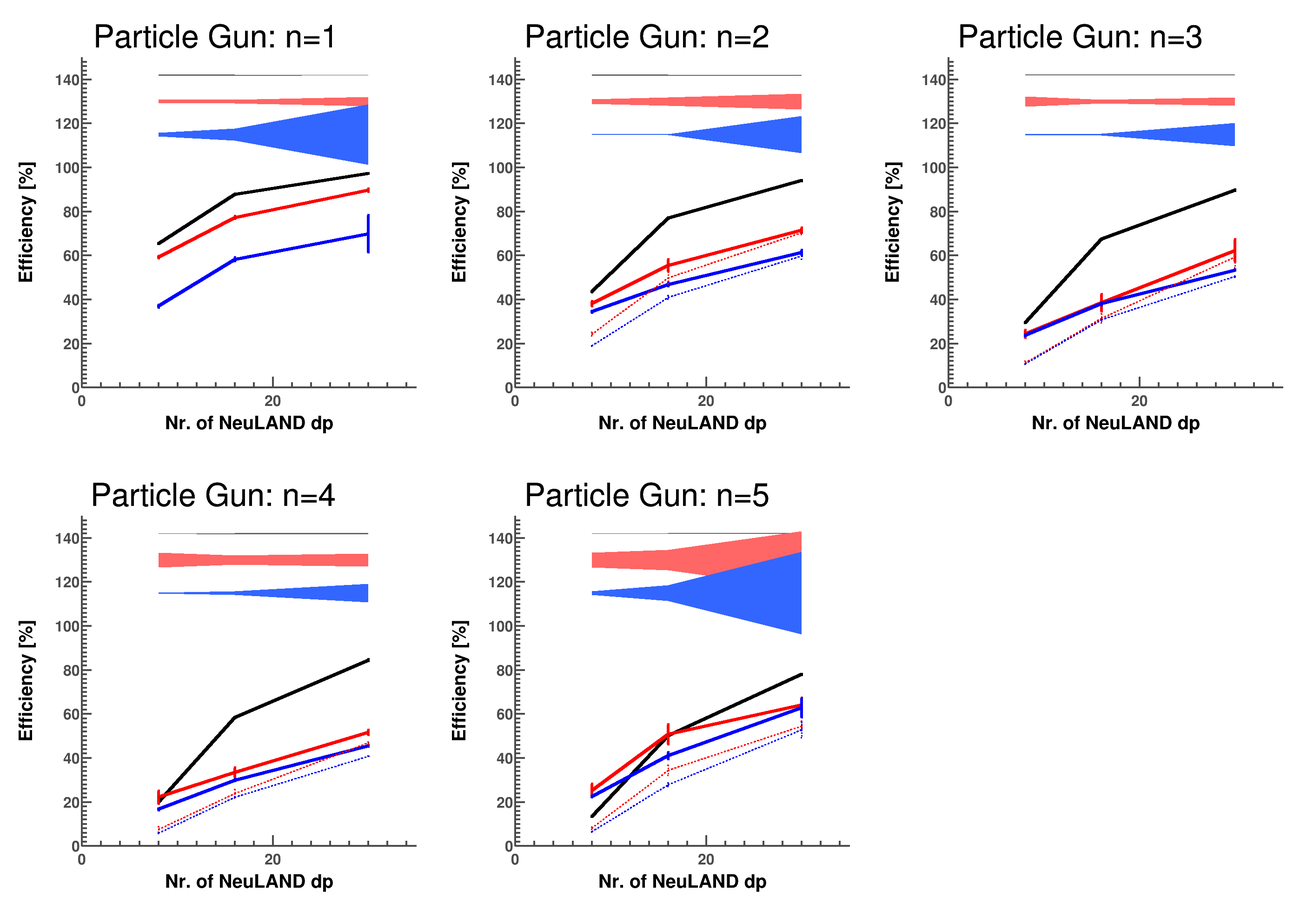
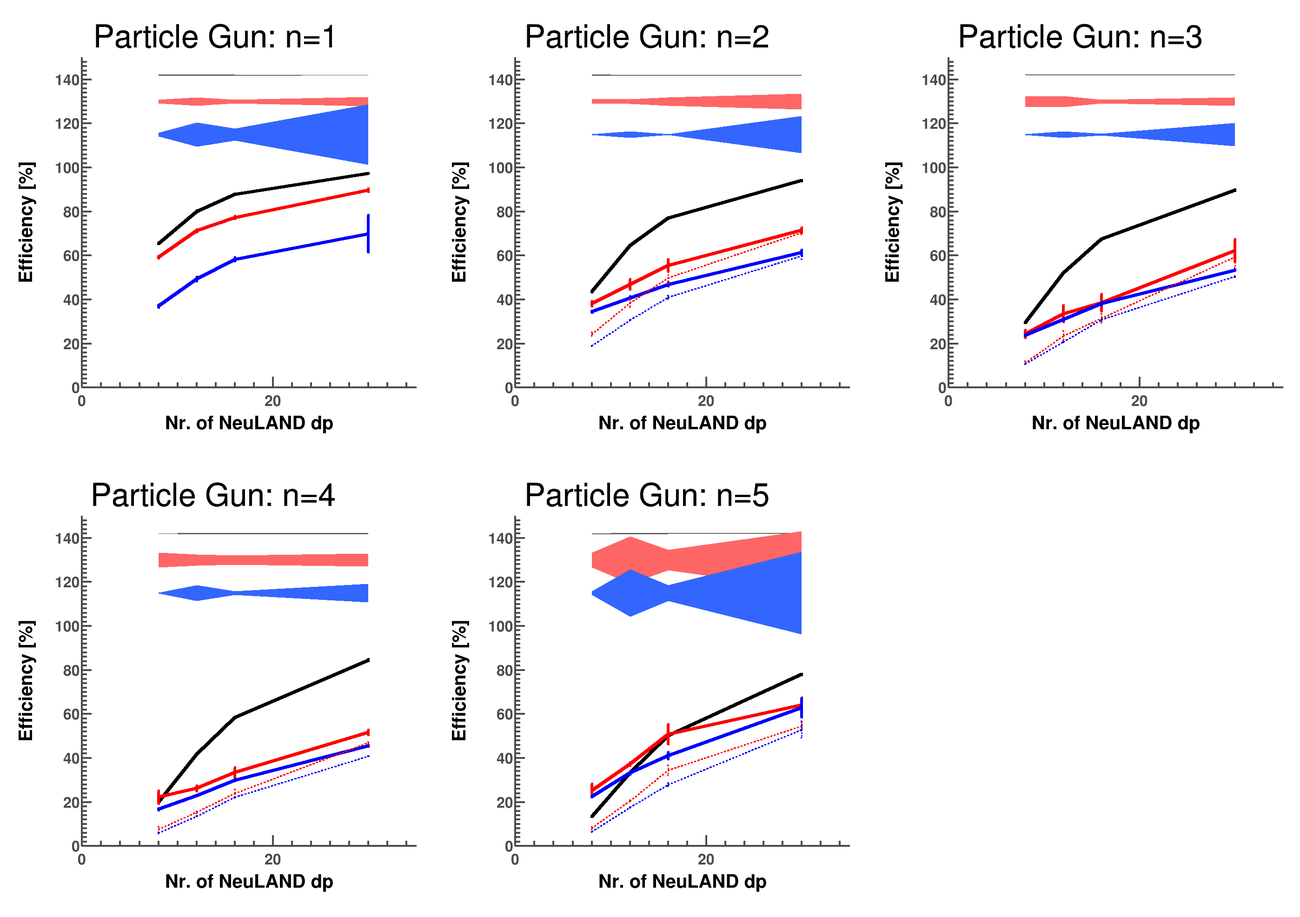
12 dp scenario

diff --git a/R3BRoot/DNN/Presentation/MakeMultAllGraphs_1000MeV.cpp b/R3BRoot/DNN/Presentation/MakeMultAllGraphs_1000MeV.cpp
@@ -45,12 +45,12 @@ void MakeMultAllGraphs_1000MeV()
     
     // ------------------------------------------------------------
     
-    // Then, add the 16dp scenario:
-    DNN_1n->AddYpoint(1,76.9,76.4,76.5,78.2,77.2); DNN_Res_1n->AddYpoint(1,75.4,75.0,75.0,76.7,75.6); TDR_1n->AddYpoint(1,56.7,57.4,55.5,61.1,59.7); TDR_Res_1n->AddYpoint(1,56.0,56.7,54.7,60.4,58.9); Perfect_1n->AddYpoint(1,87.9,87.9,87.5,88.1,87.5);
-    DNN_2n->AddYpoint(1,57.4,54.8,56.9,54.0,53.7); DNN_Res_2n->AddYpoint(1,51.7,49.0,51.0,48.9,48.2); TDR_2n->AddYpoint(1,47.0,47.7,46.6,47.0,46.8); TDR_Res_2n->AddYpoint(1,40.9,41.8,40.1,41.8,41.3); Perfect_2n->AddYpoint(1,77.2,77.4,76.8,77.3,76.7);
-    DNN_3n->AddYpoint(1,37.7,41.5,38.2,39.1,39.2); DNN_Res_3n->AddYpoint(1,31.2,33.4,31.3,32.1,31.5); TDR_3n->AddYpoint(1,38.3,37.8,38.6,37.6,37.6); TDR_Res_3n->AddYpoint(1,31.1,30.9,30.7,31.0,30.6); Perfect_3n->AddYpoint(1,67.6,67.6,67.4,67.4,67.1);
-    DNN_4n->AddYpoint(1,35.6,33.5,35.6,31.2,31.7); DNN_Res_4n->AddYpoint(1,25.9,23.9,25.3,22.3,21.9); TDR_4n->AddYpoint(1,30.0,29.7,30.7,29.0,30.0); TDR_Res_4n->AddYpoint(1,22.4,22.4,22.2,22.1,22.3); Perfect_4n->AddYpoint(1,58.7,58.8,58.0,58.6,58.3);
-    DNN_5n->AddYpoint(1,46.5,50.9,49.8,50.8,56.0); DNN_Res_5n->AddYpoint(1,32.3,34.6,34.1,34.4,37.0); TDR_5n->AddYpoint(1,40.9,39.5,44.7,37.5,41.0); TDR_Res_5n->AddYpoint(1,27.9,27.0,30.2,25.8,27.9); Perfect_5n->AddYpoint(1,50.3,50.2,50.2,50.3,50.0);
+    // Then, add the 12dp scenario:
+    DNN_1n->AddYpoint(1,71.4,71.9,69.5,73.1,70.7); DNN_Res_1n->AddYpoint(1,69.0,69.5,67.1,70.7,68.2); TDR_1n->AddYpoint(1,48.9,49.8,43.9,54.7,49.6); TDR_Res_1n->AddYpoint(1,47.8,48.7,42.8,53.6,48.4); Perfect_1n->AddYpoint(1,79.8,80.1,80.1,80.0,79.9);
+    DNN_2n->AddYpoint(1,46.4,44.2,45.8,46.9,48.0); DNN_Res_2n->AddYpoint(1,37.9,36.0,36.2,40.1,39.5); TDR_2n->AddYpoint(1,41.0,40.5,38.8,41.7,41.4); TDR_Res_2n->AddYpoint(1,30.9,30.7,27.1,33.7,31.4); Perfect_2n->AddYpoint(1,64.4,64.4,64.5,64.3,64.5);
+    DNN_3n->AddYpoint(1,34.6,38.3,35.5,30.4,33.5); DNN_Res_3n->AddYpoint(1,24.0,26.2,23.2,23.0,23.9); TDR_3n->AddYpoint(1,30.9,30.5,31.1,29.3,32.2); TDR_Res_3n->AddYpoint(1,20.8,20.6,19.0,21.7,21.9); Perfect_3n->AddYpoint(1,51.8,51.8,52.3,51.8,52.3);
+    DNN_4n->AddYpoint(1,25.5,24.4,27.0,23.5,28.6); DNN_Res_4n->AddYpoint(1,14.8,14.3,14.3,15.4,17.1); TDR_4n->AddYpoint(1,23.5,23.5,26.0,18.8,23.4); TDR_Res_4n->AddYpoint(1,14.0,14.0,13.6,12.7,14.2); Perfect_4n->AddYpoint(1,41.3,41.3,41.9,41.4,42.2);
+    DNN_5n->AddYpoint(1,38.8,39.4,47.8,26.4,36.1); DNN_Res_5n->AddYpoint(1,21.1,21.4,24.8,15.8,20.6); TDR_5n->AddYpoint(1,32.3,32.8,44.4,23.0,33.0); TDR_Res_5n->AddYpoint(1,17.3,17.4,22.4,12.7,17.9); Perfect_5n->AddYpoint(1,32.9,33.1,33.6,33.0,33.8);
     
     DNN_1n->AddYerror(1,SqrtN,SqrtN,SqrtN,SqrtN,SqrtN); DNN_Res_1n->AddYerror(1,SqrtN,SqrtN,SqrtN,SqrtN,SqrtN); TDR_1n->AddYerror(1,SqrtN,SqrtN,SqrtN,SqrtN,SqrtN); TDR_Res_1n->AddYerror(1,SqrtN,SqrtN,SqrtN,SqrtN,SqrtN); Perfect_1n->AddYerror(1,SqrtN,SqrtN,SqrtN,SqrtN,SqrtN);
     DNN_2n->AddYerror(1,SqrtN,SqrtN,SqrtN,SqrtN,SqrtN); DNN_Res_2n->AddYerror(1,SqrtN,SqrtN,SqrtN,SqrtN,SqrtN); TDR_2n->AddYerror(1,SqrtN,SqrtN,SqrtN,SqrtN,SqrtN); TDR_Res_2n->AddYerror(1,SqrtN,SqrtN,SqrtN,SqrtN,SqrtN); Perfect_2n->AddYerror(1,SqrtN,SqrtN,SqrtN,SqrtN,SqrtN);
@@ -58,20 +58,20 @@ void MakeMultAllGraphs_1000MeV()
     DNN_4n->AddYerror(1,SqrtN,SqrtN,SqrtN,SqrtN,SqrtN); DNN_Res_4n->AddYerror(1,SqrtN,SqrtN,SqrtN,SqrtN,SqrtN); TDR_4n->AddYerror(1,SqrtN,SqrtN,SqrtN,SqrtN,SqrtN); TDR_Res_4n->AddYerror(1,SqrtN,SqrtN,SqrtN,SqrtN,SqrtN); Perfect_4n->AddYerror(1,SqrtN,SqrtN,SqrtN,SqrtN,SqrtN);
     DNN_5n->AddYerror(1,SqrtN,SqrtN,SqrtN,SqrtN,SqrtN); DNN_Res_5n->AddYerror(1,SqrtN,SqrtN,SqrtN,SqrtN,SqrtN); TDR_5n->AddYerror(1,SqrtN,SqrtN,SqrtN,SqrtN,SqrtN); TDR_Res_5n->AddYerror(1,SqrtN,SqrtN,SqrtN,SqrtN,SqrtN); Perfect_5n->AddYerror(1,SqrtN,SqrtN,SqrtN,SqrtN,SqrtN);
     
-    DNN_1n->AddXpoint(1,16.0); DNN_Res_1n->AddXpoint(1,16.0); TDR_1n->AddXpoint(1,16.0); TDR_Res_1n->AddXpoint(1,16.0); Perfect_1n->AddXpoint(1,16.0);
-    DNN_2n->AddXpoint(1,16.0); DNN_Res_2n->AddXpoint(1,16.0); TDR_2n->AddXpoint(1,16.0); TDR_Res_2n->AddXpoint(1,16.0); Perfect_2n->AddXpoint(1,16.0);
-    DNN_3n->AddXpoint(1,16.0); DNN_Res_3n->AddXpoint(1,16.0); TDR_3n->AddXpoint(1,16.0); TDR_Res_3n->AddXpoint(1,16.0); Perfect_3n->AddXpoint(1,16.0);
-    DNN_4n->AddXpoint(1,16.0); DNN_Res_4n->AddXpoint(1,16.0); TDR_4n->AddXpoint(1,16.0); TDR_Res_4n->AddXpoint(1,16.0); Perfect_4n->AddXpoint(1,16.0);
-    DNN_5n->AddXpoint(1,16.0); DNN_Res_5n->AddXpoint(1,16.0); TDR_5n->AddXpoint(1,16.0); TDR_Res_5n->AddXpoint(1,16.0); Perfect_5n->AddXpoint(1,16.0);
+    DNN_1n->AddXpoint(1,12.0); DNN_Res_1n->AddXpoint(1,12.0); TDR_1n->AddXpoint(1,12.0); TDR_Res_1n->AddXpoint(1,12.0); Perfect_1n->AddXpoint(1,12.0);
+    DNN_2n->AddXpoint(1,12.0); DNN_Res_2n->AddXpoint(1,12.0); TDR_2n->AddXpoint(1,12.0); TDR_Res_2n->AddXpoint(1,12.0); Perfect_2n->AddXpoint(1,12.0);
+    DNN_3n->AddXpoint(1,12.0); DNN_Res_3n->AddXpoint(1,12.0); TDR_3n->AddXpoint(1,12.0); TDR_Res_3n->AddXpoint(1,12.0); Perfect_3n->AddXpoint(1,12.0);
+    DNN_4n->AddXpoint(1,12.0); DNN_Res_4n->AddXpoint(1,12.0); TDR_4n->AddXpoint(1,12.0); TDR_Res_4n->AddXpoint(1,12.0); Perfect_4n->AddXpoint(1,12.0);
+    DNN_5n->AddXpoint(1,12.0); DNN_Res_5n->AddXpoint(1,12.0); TDR_5n->AddXpoint(1,12.0); TDR_Res_5n->AddXpoint(1,12.0); Perfect_5n->AddXpoint(1,12.0);
     
     // ------------------------------------------------------------
     
-    // Then, add the 30dp scenario:
-    DNN_1n->AddYpoint(2,89.5,88.9,87.6,91.8,89.7); DNN_Res_1n->AddYpoint(2,89.2,88.6,87.2,91.4,89.3); TDR_1n->AddYpoint(2,67.1,75.4,53.4,80.9,78.0); TDR_Res_1n->AddYpoint(2,66.9,75.2,53.2,80.8,77.8); Perfect_1n->AddYpoint(2,97.2,97.2,97.3,97.3,97.2);
-    DNN_2n->AddYpoint(2,70.9,71.9,67.1,74.1,73.9); DNN_Res_2n->AddYpoint(2,69.8,70.7,65.9,73.2,72.8); TDR_2n->AddYpoint(2,64.1,65.2,49.7,66.5,65.2); TDR_Res_2n->AddYpoint(2,62.4,64.0,47.4,65.7,64.2); Perfect_2n->AddYpoint(2,94.1,94.0,93.9,94.0,94.0);
-    DNN_3n->AddYpoint(2,64.0,59.0,61.2,60.2,63.7); DNN_Res_3n->AddYpoint(2,61.0,56.3,57.6,58.0,60.7); TDR_3n->AddYpoint(2,57.4,57.4,46.8,52.4,56.7); TDR_Res_3n->AddYpoint(2,54.4,54.7,42.7,50.9,53.9); Perfect_3n->AddYpoint(2,89.7,89.9,89.5,89.9,89.6);
-    DNN_4n->AddYpoint(2,52.3,53.4,50.5,48.9,54.7); DNN_Res_4n->AddYpoint(2,47.7,48.2,44.9,45.2,49.7); TDR_4n->AddYpoint(2,48.8,48.6,43.3,40.8,49.2); TDR_Res_4n->AddYpoint(2,44.3,44.2,37.3,37.6,44.4); Perfect_4n->AddYpoint(2,84.7,84.4,84.2,84.5,84.1);
-    DNN_5n->AddYpoint(2,66.1,69.1,75.6,49.2,65.7); DNN_Res_5n->AddYpoint(2,56.6,58.8,63.4,42.7,55.9); TDR_5n->AddYpoint(2,58.0,62.3,81.0,43.4,68.8); TDR_Res_5n->AddYpoint(2,49.4,53.0,66.9,37.1,57.9); Perfect_5n->AddYpoint(2,78.2,78.2,77.7,78.2,77.8);
+    // Then, add the 16dp scenario:
+    DNN_1n->AddYpoint(2,76.9,76.4,76.5,78.2,77.2); DNN_Res_1n->AddYpoint(2,75.4,75.0,75.0,76.7,75.6); TDR_1n->AddYpoint(2,56.7,57.4,55.5,61.1,59.7); TDR_Res_1n->AddYpoint(2,56.0,56.7,54.7,60.4,58.9); Perfect_1n->AddYpoint(2,87.9,87.9,87.5,88.1,87.5);
+    DNN_2n->AddYpoint(2,57.4,54.8,56.9,54.0,53.7); DNN_Res_2n->AddYpoint(2,51.7,49.0,51.0,48.9,48.2); TDR_2n->AddYpoint(2,47.0,47.7,46.6,47.0,46.8); TDR_Res_2n->AddYpoint(2,40.9,41.8,40.1,41.8,41.3); Perfect_2n->AddYpoint(2,77.2,77.4,76.8,77.3,76.7);
+    DNN_3n->AddYpoint(2,37.7,41.5,38.2,39.1,39.2); DNN_Res_3n->AddYpoint(2,31.2,33.4,31.3,32.1,31.5); TDR_3n->AddYpoint(2,38.3,37.8,38.6,37.6,37.6); TDR_Res_3n->AddYpoint(2,31.1,30.9,30.7,31.0,30.6); Perfect_3n->AddYpoint(2,67.6,67.6,67.4,67.4,67.1);
+    DNN_4n->AddYpoint(2,35.6,33.5,35.6,31.2,31.7); DNN_Res_4n->AddYpoint(2,25.9,23.9,25.3,22.3,21.9); TDR_4n->AddYpoint(2,30.0,29.7,30.7,29.0,30.0); TDR_Res_4n->AddYpoint(2,22.4,22.4,22.2,22.1,22.3); Perfect_4n->AddYpoint(2,58.7,58.8,58.0,58.6,58.3);
+    DNN_5n->AddYpoint(2,46.5,50.9,49.8,50.8,56.0); DNN_Res_5n->AddYpoint(2,32.3,34.6,34.1,34.4,37.0); TDR_5n->AddYpoint(2,40.9,39.5,44.7,37.5,41.0); TDR_Res_5n->AddYpoint(2,27.9,27.0,30.2,25.8,27.9); Perfect_5n->AddYpoint(2,50.3,50.2,50.2,50.3,50.0);
     
     DNN_1n->AddYerror(2,SqrtN,SqrtN,SqrtN,SqrtN,SqrtN); DNN_Res_1n->AddYerror(2,SqrtN,SqrtN,SqrtN,SqrtN,SqrtN); TDR_1n->AddYerror(2,SqrtN,SqrtN,SqrtN,SqrtN,SqrtN); TDR_Res_1n->AddYerror(2,SqrtN,SqrtN,SqrtN,SqrtN,SqrtN); Perfect_1n->AddYerror(2,SqrtN,SqrtN,SqrtN,SqrtN,SqrtN);
     DNN_2n->AddYerror(2,SqrtN,SqrtN,SqrtN,SqrtN,SqrtN); DNN_Res_2n->AddYerror(2,SqrtN,SqrtN,SqrtN,SqrtN,SqrtN); TDR_2n->AddYerror(2,SqrtN,SqrtN,SqrtN,SqrtN,SqrtN); TDR_Res_2n->AddYerror(2,SqrtN,SqrtN,SqrtN,SqrtN,SqrtN); Perfect_2n->AddYerror(2,SqrtN,SqrtN,SqrtN,SqrtN,SqrtN);
@@ -79,11 +79,32 @@ void MakeMultAllGraphs_1000MeV()
     DNN_4n->AddYerror(2,SqrtN,SqrtN,SqrtN,SqrtN,SqrtN); DNN_Res_4n->AddYerror(2,SqrtN,SqrtN,SqrtN,SqrtN,SqrtN); TDR_4n->AddYerror(2,SqrtN,SqrtN,SqrtN,SqrtN,SqrtN); TDR_Res_4n->AddYerror(2,SqrtN,SqrtN,SqrtN,SqrtN,SqrtN); Perfect_4n->AddYerror(2,SqrtN,SqrtN,SqrtN,SqrtN,SqrtN);
     DNN_5n->AddYerror(2,SqrtN,SqrtN,SqrtN,SqrtN,SqrtN); DNN_Res_5n->AddYerror(2,SqrtN,SqrtN,SqrtN,SqrtN,SqrtN); TDR_5n->AddYerror(2,SqrtN,SqrtN,SqrtN,SqrtN,SqrtN); TDR_Res_5n->AddYerror(2,SqrtN,SqrtN,SqrtN,SqrtN,SqrtN); Perfect_5n->AddYerror(2,SqrtN,SqrtN,SqrtN,SqrtN,SqrtN);
     
-    DNN_1n->AddXpoint(2,30.0); DNN_Res_1n->AddXpoint(2,30.0); TDR_1n->AddXpoint(2,30.0); TDR_Res_1n->AddXpoint(2,30.0); Perfect_1n->AddXpoint(2,30.0);
-    DNN_2n->AddXpoint(2,30.0); DNN_Res_2n->AddXpoint(2,30.0); TDR_2n->AddXpoint(2,30.0); TDR_Res_2n->AddXpoint(2,30.0); Perfect_2n->AddXpoint(2,30.0);
-    DNN_3n->AddXpoint(2,30.0); DNN_Res_3n->AddXpoint(2,30.0); TDR_3n->AddXpoint(2,30.0); TDR_Res_3n->AddXpoint(2,30.0); Perfect_3n->AddXpoint(2,30.0);
-    DNN_4n->AddXpoint(2,30.0); DNN_Res_4n->AddXpoint(2,30.0); TDR_4n->AddXpoint(2,30.0); TDR_Res_4n->AddXpoint(2,30.0); Perfect_4n->AddXpoint(2,30.0);
-    DNN_5n->AddXpoint(2,30.0); DNN_Res_5n->AddXpoint(2,30.0); TDR_5n->AddXpoint(2,30.0); TDR_Res_5n->AddXpoint(2,30.0); Perfect_5n->AddXpoint(2,30.0);
+    DNN_1n->AddXpoint(2,16.0); DNN_Res_1n->AddXpoint(2,16.0); TDR_1n->AddXpoint(2,16.0); TDR_Res_1n->AddXpoint(2,16.0); Perfect_1n->AddXpoint(2,16.0);
+    DNN_2n->AddXpoint(2,16.0); DNN_Res_2n->AddXpoint(2,16.0); TDR_2n->AddXpoint(2,16.0); TDR_Res_2n->AddXpoint(2,16.0); Perfect_2n->AddXpoint(2,16.0);
+    DNN_3n->AddXpoint(2,16.0); DNN_Res_3n->AddXpoint(2,16.0); TDR_3n->AddXpoint(2,16.0); TDR_Res_3n->AddXpoint(2,16.0); Perfect_3n->AddXpoint(2,16.0);
+    DNN_4n->AddXpoint(2,16.0); DNN_Res_4n->AddXpoint(2,16.0); TDR_4n->AddXpoint(2,16.0); TDR_Res_4n->AddXpoint(2,16.0); Perfect_4n->AddXpoint(2,16.0);
+    DNN_5n->AddXpoint(2,16.0); DNN_Res_5n->AddXpoint(2,16.0); TDR_5n->AddXpoint(2,16.0); TDR_Res_5n->AddXpoint(2,16.0); Perfect_5n->AddXpoint(2,16.0);
+    
+    // ------------------------------------------------------------
+    
+    // Then, add the 30dp scenario:
+    DNN_1n->AddYpoint(3,89.5,88.9,87.6,91.8,89.7); DNN_Res_1n->AddYpoint(3,89.2,88.6,87.2,91.4,89.3); TDR_1n->AddYpoint(3,67.1,75.4,53.4,80.9,78.0); TDR_Res_1n->AddYpoint(3,66.9,75.2,53.2,80.8,77.8); Perfect_1n->AddYpoint(3,97.2,97.2,97.3,97.3,97.2);
+    DNN_2n->AddYpoint(3,70.9,71.9,67.1,74.1,73.9); DNN_Res_2n->AddYpoint(3,69.8,70.7,65.9,73.2,72.8); TDR_2n->AddYpoint(3,64.1,65.2,49.7,66.5,65.2); TDR_Res_2n->AddYpoint(3,62.4,64.0,47.4,65.7,64.2); Perfect_2n->AddYpoint(3,94.1,94.0,93.9,94.0,94.0);
+    DNN_3n->AddYpoint(3,64.0,59.0,61.2,60.2,63.7); DNN_Res_3n->AddYpoint(3,61.0,56.3,57.6,58.0,60.7); TDR_3n->AddYpoint(3,57.4,57.4,46.8,52.4,56.7); TDR_Res_3n->AddYpoint(3,54.4,54.7,42.7,50.9,53.9); Perfect_3n->AddYpoint(3,89.7,89.9,89.5,89.9,89.6);
+    DNN_4n->AddYpoint(3,52.3,53.4,50.5,48.9,54.7); DNN_Res_4n->AddYpoint(3,47.7,48.2,44.9,45.2,49.7); TDR_4n->AddYpoint(3,48.8,48.6,43.3,40.8,49.2); TDR_Res_4n->AddYpoint(3,44.3,44.2,37.3,37.6,44.4); Perfect_4n->AddYpoint(3,84.7,84.4,84.2,84.5,84.1);
+    DNN_5n->AddYpoint(3,66.1,69.1,75.6,49.2,65.7); DNN_Res_5n->AddYpoint(3,56.6,58.8,63.4,42.7,55.9); TDR_5n->AddYpoint(3,58.0,62.3,81.0,43.4,68.8); TDR_Res_5n->AddYpoint(3,49.4,53.0,66.9,37.1,57.9); Perfect_5n->AddYpoint(3,78.2,78.2,77.7,78.2,77.8);
+    
+    DNN_1n->AddYerror(3,SqrtN,SqrtN,SqrtN,SqrtN,SqrtN); DNN_Res_1n->AddYerror(3,SqrtN,SqrtN,SqrtN,SqrtN,SqrtN); TDR_1n->AddYerror(3,SqrtN,SqrtN,SqrtN,SqrtN,SqrtN); TDR_Res_1n->AddYerror(3,SqrtN,SqrtN,SqrtN,SqrtN,SqrtN); Perfect_1n->AddYerror(3,SqrtN,SqrtN,SqrtN,SqrtN,SqrtN);
+    DNN_2n->AddYerror(3,SqrtN,SqrtN,SqrtN,SqrtN,SqrtN); DNN_Res_2n->AddYerror(3,SqrtN,SqrtN,SqrtN,SqrtN,SqrtN); TDR_2n->AddYerror(3,SqrtN,SqrtN,SqrtN,SqrtN,SqrtN); TDR_Res_2n->AddYerror(3,SqrtN,SqrtN,SqrtN,SqrtN,SqrtN); Perfect_2n->AddYerror(3,SqrtN,SqrtN,SqrtN,SqrtN,SqrtN);
+    DNN_3n->AddYerror(3,SqrtN,SqrtN,SqrtN,SqrtN,SqrtN); DNN_Res_3n->AddYerror(3,SqrtN,SqrtN,SqrtN,SqrtN,SqrtN); TDR_3n->AddYerror(3,SqrtN,SqrtN,SqrtN,SqrtN,SqrtN); TDR_Res_3n->AddYerror(3,SqrtN,SqrtN,SqrtN,SqrtN,SqrtN); Perfect_3n->AddYerror(3,SqrtN,SqrtN,SqrtN,SqrtN,SqrtN);
+    DNN_4n->AddYerror(3,SqrtN,SqrtN,SqrtN,SqrtN,SqrtN); DNN_Res_4n->AddYerror(3,SqrtN,SqrtN,SqrtN,SqrtN,SqrtN); TDR_4n->AddYerror(3,SqrtN,SqrtN,SqrtN,SqrtN,SqrtN); TDR_Res_4n->AddYerror(3,SqrtN,SqrtN,SqrtN,SqrtN,SqrtN); Perfect_4n->AddYerror(3,SqrtN,SqrtN,SqrtN,SqrtN,SqrtN);
+    DNN_5n->AddYerror(3,SqrtN,SqrtN,SqrtN,SqrtN,SqrtN); DNN_Res_5n->AddYerror(3,SqrtN,SqrtN,SqrtN,SqrtN,SqrtN); TDR_5n->AddYerror(3,SqrtN,SqrtN,SqrtN,SqrtN,SqrtN); TDR_Res_5n->AddYerror(3,SqrtN,SqrtN,SqrtN,SqrtN,SqrtN); Perfect_5n->AddYerror(3,SqrtN,SqrtN,SqrtN,SqrtN,SqrtN);
+    
+    DNN_1n->AddXpoint(3,30.0); DNN_Res_1n->AddXpoint(3,30.0); TDR_1n->AddXpoint(3,30.0); TDR_Res_1n->AddXpoint(3,30.0); Perfect_1n->AddXpoint(3,30.0);
+    DNN_2n->AddXpoint(3,30.0); DNN_Res_2n->AddXpoint(3,30.0); TDR_2n->AddXpoint(3,30.0); TDR_Res_2n->AddXpoint(3,30.0); Perfect_2n->AddXpoint(3,30.0);
+    DNN_3n->AddXpoint(3,30.0); DNN_Res_3n->AddXpoint(3,30.0); TDR_3n->AddXpoint(3,30.0); TDR_Res_3n->AddXpoint(3,30.0); Perfect_3n->AddXpoint(3,30.0);
+    DNN_4n->AddXpoint(3,30.0); DNN_Res_4n->AddXpoint(3,30.0); TDR_4n->AddXpoint(3,30.0); TDR_Res_4n->AddXpoint(3,30.0); Perfect_4n->AddXpoint(3,30.0);
+    DNN_5n->AddXpoint(3,30.0); DNN_Res_5n->AddXpoint(3,30.0); TDR_5n->AddXpoint(3,30.0); TDR_Res_5n->AddXpoint(3,30.0); Perfect_5n->AddXpoint(3,30.0);
     
     // ------------------------------------------------------------
     

diff --git a/R3BRoot/DNN/Presentation/MakeMultAllGraphs_200MeV.cpp b/R3BRoot/DNN/Presentation/MakeMultAllGraphs_200MeV.cpp
@@ -45,12 +45,12 @@ void MakeMultAllGraphs_200MeV()
     
     // ------------------------------------------------------------
     
-    // Then, add the 16dp scenario:
-    DNN_1n->AddYpoint(1,75.2,74.8,72.7,73.2,69.9); DNN_Res_1n->AddYpoint(1,74.7,74.4,72.0,72.8,69.3); TDR_1n->AddYpoint(1,66.4,67.5,64.2,64.5,62.0); TDR_Res_1n->AddYpoint(1,66.1,76.3,63.8,64.3,61.7); Perfect_1n->AddYpoint(1,82.5,82.6,79.1,82.8,79.0);
-    DNN_2n->AddYpoint(1,55.9,56.2,49.1,53.8,48.8); DNN_Res_2n->AddYpoint(1,50.2,50.5,43.0,47.0,41.0); TDR_2n->AddYpoint(1,51.6,50.8,46.0,52.7,47.2); TDR_Res_2n->AddYpoint(1,46.1,45.6,39.7,46.5,40.0); Perfect_2n->AddYpoint(1,68.5,68.3,62.9,68.4,62.7);
-    DNN_3n->AddYpoint(1,41.3,43.8,34.0,40.2,35.3); DNN_Res_3n->AddYpoint(1,33.1,35.3,26.3,29.8,24.9); TDR_3n->AddYpoint(1,38.9,38.4,32.4,33.1,28.4); TDR_Res_3n->AddYpoint(1,31.7,31.2,25.0,25.8,21.0); Perfect_3n->AddYpoint(1,56.3,56.3,49.6,56.1,49.7);
-    DNN_4n->AddYpoint(1,37.0,36.1,28.3,40.5,34.6); DNN_Res_4n->AddYpoint(1,25.8,26.3,19.0,25.8,20.5); TDR_4n->AddYpoint(1,33.4,34.1,26.1,39.4,32.4); TDR_Res_4n->AddYpoint(1,24.8,25.0,18.1,26.6,20.4); Perfect_4n->AddYpoint(1,46.1,46.1,38.9,46.2,38.9);
-    DNN_5n->AddYpoint(1,40.1,35.7,26.6,43.6,33.9); DNN_Res_5n->AddYpoint(1,27.2,25.0,17.0,28.0,20.0); TDR_5n->AddYpoint(1,32.3,32.4,23.1,36.5,27.5); TDR_Res_5n->AddYpoint(1,23.1,23.0,15.0,25.0,17.1); Perfect_5n->AddYpoint(1,37.5,37.4,30.3,37.3,30.2);
+    // Then, add the 12dp scenario:
+    DNN_1n->AddYpoint(1,64.8,66.4,60.5,66.1,62.0); DNN_Res_1n->AddYpoint(1,64.1,65.6,59.5,65.3,61.1); TDR_1n->AddYpoint(1,57.9,57.9,50.8,61.4,55.1); TDR_Res_1n->AddYpoint(1,57.4,57.5,50.3,60.9,54.6); Perfect_1n->AddYpoint(1,72.8,72.7,70.6,72.6,70.6);
+    DNN_2n->AddYpoint(1,48.5,45.9,44.4,47.3,43.2); DNN_Res_2n->AddYpoint(1,38.6,37.6,32.2,38.5,32.1); TDR_2n->AddYpoint(1,41.1,41.8,37.8,39.2,35.5); TDR_Res_2n->AddYpoint(1,32.7,33.6,25.9,33.0,26.2); Perfect_2n->AddYpoint(1,53.2,53.4,50.3,53.2,50.3);
+    DNN_3n->AddYpoint(1,33.9,33.1,30.5,30.7,29.1); DNN_Res_3n->AddYpoint(1,22.8,22.0,17.9,21.4,17.2); TDR_3n->AddYpoint(1,31.2,30.4,28.8,30.0,28.0); TDR_Res_3n->AddYpoint(1,21.0,20.9,15.9,21.4,16.5); Perfect_3n->AddYpoint(1,38.6,38.7,35.7,38.6,35.6);
+    DNN_4n->AddYpoint(1,24.0,28.9,21.4,24.9,24.2); DNN_Res_4n->AddYpoint(1,12.8,15.8,9.7,14.5,11.3);  TDR_4n->AddYpoint(1,23.1,21.7,22.3,20.8,20.2); TDR_Res_4n->AddYpoint(1,13.6,12.8,10.3,13.2,10.2); Perfect_4n->AddYpoint(1,27.9,27.9,25.1,28.0,25.2);
+    DNN_5n->AddYpoint(1,30.9,25.1,29.8,22.9,25.9); DNN_Res_5n->AddYpoint(1,15.3,13.6,12.6,12.4,11.5); TDR_5n->AddYpoint(1,21.6,22.3,24.6,18.7,21.0); TDR_Res_5n->AddYpoint(1,12.1,12.4,11.1,10.9,9.9);  Perfect_5n->AddYpoint(1,20.2,20.1,17.6,20.1,17.6);
     
     DNN_1n->AddYerror(1,SqrtN,SqrtN,SqrtN,SqrtN,SqrtN); DNN_Res_1n->AddYerror(1,SqrtN,SqrtN,SqrtN,SqrtN,SqrtN); TDR_1n->AddYerror(1,SqrtN,SqrtN,SqrtN,SqrtN,SqrtN); TDR_Res_1n->AddYerror(1,SqrtN,SqrtN,SqrtN,SqrtN,SqrtN); Perfect_1n->AddYerror(1,SqrtN,SqrtN,SqrtN,SqrtN,SqrtN);
     DNN_2n->AddYerror(1,SqrtN,SqrtN,SqrtN,SqrtN,SqrtN); DNN_Res_2n->AddYerror(1,SqrtN,SqrtN,SqrtN,SqrtN,SqrtN); TDR_2n->AddYerror(1,SqrtN,SqrtN,SqrtN,SqrtN,SqrtN); TDR_Res_2n->AddYerror(1,SqrtN,SqrtN,SqrtN,SqrtN,SqrtN); Perfect_2n->AddYerror(1,SqrtN,SqrtN,SqrtN,SqrtN,SqrtN);
@@ -58,20 +58,20 @@ void MakeMultAllGraphs_200MeV()
     DNN_4n->AddYerror(1,SqrtN,SqrtN,SqrtN,SqrtN,SqrtN); DNN_Res_4n->AddYerror(1,SqrtN,SqrtN,SqrtN,SqrtN,SqrtN); TDR_4n->AddYerror(1,SqrtN,SqrtN,SqrtN,SqrtN,SqrtN); TDR_Res_4n->AddYerror(1,SqrtN,SqrtN,SqrtN,SqrtN,SqrtN); Perfect_4n->AddYerror(1,SqrtN,SqrtN,SqrtN,SqrtN,SqrtN);
     DNN_5n->AddYerror(1,SqrtN,SqrtN,SqrtN,SqrtN,SqrtN); DNN_Res_5n->AddYerror(1,SqrtN,SqrtN,SqrtN,SqrtN,SqrtN); TDR_5n->AddYerror(1,SqrtN,SqrtN,SqrtN,SqrtN,SqrtN); TDR_Res_5n->AddYerror(1,SqrtN,SqrtN,SqrtN,SqrtN,SqrtN); Perfect_5n->AddYerror(1,SqrtN,SqrtN,SqrtN,SqrtN,SqrtN);
     
-    DNN_1n->AddXpoint(1,16.0); DNN_Res_1n->AddXpoint(1,16.0); TDR_1n->AddXpoint(1,16.0); TDR_Res_1n->AddXpoint(1,16.0); Perfect_1n->AddXpoint(1,16.0);
-    DNN_2n->AddXpoint(1,16.0); DNN_Res_2n->AddXpoint(1,16.0); TDR_2n->AddXpoint(1,16.0); TDR_Res_2n->AddXpoint(1,16.0); Perfect_2n->AddXpoint(1,16.0);
-    DNN_3n->AddXpoint(1,16.0); DNN_Res_3n->AddXpoint(1,16.0); TDR_3n->AddXpoint(1,16.0); TDR_Res_3n->AddXpoint(1,16.0); Perfect_3n->AddXpoint(1,16.0);
-    DNN_4n->AddXpoint(1,16.0); DNN_Res_4n->AddXpoint(1,16.0); TDR_4n->AddXpoint(1,16.0); TDR_Res_4n->AddXpoint(1,16.0); Perfect_4n->AddXpoint(1,16.0);
-    DNN_5n->AddXpoint(1,16.0); DNN_Res_5n->AddXpoint(1,16.0); TDR_5n->AddXpoint(1,16.0); TDR_Res_5n->AddXpoint(1,16.0); Perfect_5n->AddXpoint(1,16.0);
+    DNN_1n->AddXpoint(1,12.0); DNN_Res_1n->AddXpoint(1,12.0); TDR_1n->AddXpoint(1,12.0); TDR_Res_1n->AddXpoint(1,12.0); Perfect_1n->AddXpoint(1,12.0);
+    DNN_2n->AddXpoint(1,12.0); DNN_Res_2n->AddXpoint(1,12.0); TDR_2n->AddXpoint(1,12.0); TDR_Res_2n->AddXpoint(1,12.0); Perfect_2n->AddXpoint(1,12.0);
+    DNN_3n->AddXpoint(1,12.0); DNN_Res_3n->AddXpoint(1,12.0); TDR_3n->AddXpoint(1,12.0); TDR_Res_3n->AddXpoint(1,12.0); Perfect_3n->AddXpoint(1,12.0);
+    DNN_4n->AddXpoint(1,12.0); DNN_Res_4n->AddXpoint(1,12.0); TDR_4n->AddXpoint(1,12.0); TDR_Res_4n->AddXpoint(1,12.0); Perfect_4n->AddXpoint(1,12.0);
+    DNN_5n->AddXpoint(1,12.0); DNN_Res_5n->AddXpoint(1,12.0); TDR_5n->AddXpoint(1,12.0); TDR_Res_5n->AddXpoint(1,12.0); Perfect_5n->AddXpoint(1,12.0);
     
     // ------------------------------------------------------------
     
-    // Then, add the 30dp scenario:
-    DNN_1n->AddYpoint(2,88.8,87.4,87.4,86.8,85.1); DNN_Res_1n->AddYpoint(2,88.6,87.3,87.2,86.7,85.0); TDR_1n->AddYpoint(2,82.8,82.0,81.2,82.6,81.2); TDR_Res_1n->AddYpoint(2,82.8,81.9,81.1,82.5,81.1); Perfect_1n->AddYpoint(2,95.2,95.1,93.4,95.0,93.5);
-    DNN_2n->AddYpoint(2,70.5,72.1,64.7,68.8,63.8); DNN_Res_2n->AddYpoint(2,69.2,70.7,63.1,67.4,61.8); TDR_2n->AddYpoint(2,58.4,66.2,53.4,67.6,62.3); TDR_Res_2n->AddYpoint(2,57.2,64.9,51.8,66.3,60.6); Perfect_2n->AddYpoint(2,90.4,90.5,87.6,90.4,87.5);
-    DNN_3n->AddYpoint(2,60.2,60.6,53.4,59.1,54.1); DNN_Res_3n->AddYpoint(2,57.1,57.5,49.7,55.6,49.6); TDR_3n->AddYpoint(2,65.1,57.2,60.3,57.9,52.6); TDR_Res_3n->AddYpoint(2,61.1,54.2,54.8,55.1,48.9); Perfect_3n->AddYpoint(2,85.6,85.6,81.2,85.6,81.2);
-    DNN_4n->AddYpoint(2,55.2,52.6,47.8,49.7,46.1); DNN_Res_4n->AddYpoint(2,50.3,47.8,42.2,44.6,39.6); TDR_4n->AddYpoint(2,55.4,57.7,50.0,55.0,49.5); TDR_Res_4n->AddYpoint(2,51.3,53.0,44.5,50.8,43.9); Perfect_4n->AddYpoint(2,80.4,80.3,74.8,80.3,74.6);
-    DNN_5n->AddYpoint(2,63.3,66.2,49.1,69.3,60.9); DNN_Res_5n->AddYpoint(2,56.2,58.4,41.8,60.3,50.3); TDR_5n->AddYpoint(2,50.7,54.1,45.6,54.2,48.1); TDR_Res_5n->AddYpoint(2,45.9,48.8,39.1,48.8,41.1); Perfect_5n->AddYpoint(2,75.1,75.1,67.9,75.1,68.0);
+    // Then, add the 16dp scenario:
+    DNN_1n->AddYpoint(2,75.2,74.8,72.7,73.2,69.9); DNN_Res_1n->AddYpoint(2,74.7,74.4,72.0,72.8,69.3); TDR_1n->AddYpoint(2,66.4,67.5,64.2,64.5,62.0); TDR_Res_1n->AddYpoint(2,66.1,76.3,63.8,64.3,61.7); Perfect_1n->AddYpoint(2,82.5,82.6,79.1,82.8,79.0);
+    DNN_2n->AddYpoint(2,55.9,56.2,49.1,53.8,48.8); DNN_Res_2n->AddYpoint(2,50.2,50.5,43.0,47.0,41.0); TDR_2n->AddYpoint(2,51.6,50.8,46.0,52.7,47.2); TDR_Res_2n->AddYpoint(2,46.1,45.6,39.7,46.5,40.0); Perfect_2n->AddYpoint(2,68.5,68.3,62.9,68.4,62.7);
+    DNN_3n->AddYpoint(2,41.3,43.8,34.0,40.2,35.3); DNN_Res_3n->AddYpoint(2,33.1,35.3,26.3,29.8,24.9); TDR_3n->AddYpoint(2,38.9,38.4,32.4,33.1,28.4); TDR_Res_3n->AddYpoint(2,31.7,31.2,25.0,25.8,21.0); Perfect_3n->AddYpoint(2,56.3,56.3,49.6,56.1,49.7);
+    DNN_4n->AddYpoint(2,37.0,36.1,28.3,40.5,34.6); DNN_Res_4n->AddYpoint(2,25.8,26.3,19.0,25.8,20.5); TDR_4n->AddYpoint(2,33.4,34.1,26.1,39.4,32.4); TDR_Res_4n->AddYpoint(2,24.8,25.0,18.1,26.6,20.4); Perfect_4n->AddYpoint(2,46.1,46.1,38.9,46.2,38.9);
+    DNN_5n->AddYpoint(2,40.1,35.7,26.6,43.6,33.9); DNN_Res_5n->AddYpoint(2,27.2,25.0,17.0,28.0,20.0); TDR_5n->AddYpoint(2,32.3,32.4,23.1,36.5,27.5); TDR_Res_5n->AddYpoint(2,23.1,23.0,15.0,25.0,17.1); Perfect_5n->AddYpoint(2,37.5,37.4,30.3,37.3,30.2);
     
     DNN_1n->AddYerror(2,SqrtN,SqrtN,SqrtN,SqrtN,SqrtN); DNN_Res_1n->AddYerror(2,SqrtN,SqrtN,SqrtN,SqrtN,SqrtN); TDR_1n->AddYerror(2,SqrtN,SqrtN,SqrtN,SqrtN,SqrtN); TDR_Res_1n->AddYerror(2,SqrtN,SqrtN,SqrtN,SqrtN,SqrtN); Perfect_1n->AddYerror(2,SqrtN,SqrtN,SqrtN,SqrtN,SqrtN);
     DNN_2n->AddYerror(2,SqrtN,SqrtN,SqrtN,SqrtN,SqrtN); DNN_Res_2n->AddYerror(2,SqrtN,SqrtN,SqrtN,SqrtN,SqrtN); TDR_2n->AddYerror(2,SqrtN,SqrtN,SqrtN,SqrtN,SqrtN); TDR_Res_2n->AddYerror(2,SqrtN,SqrtN,SqrtN,SqrtN,SqrtN); Perfect_2n->AddYerror(2,SqrtN,SqrtN,SqrtN,SqrtN,SqrtN);
@@ -79,11 +79,32 @@ void MakeMultAllGraphs_200MeV()
     DNN_4n->AddYerror(2,SqrtN,SqrtN,SqrtN,SqrtN,SqrtN); DNN_Res_4n->AddYerror(2,SqrtN,SqrtN,SqrtN,SqrtN,SqrtN); TDR_4n->AddYerror(2,SqrtN,SqrtN,SqrtN,SqrtN,SqrtN); TDR_Res_4n->AddYerror(2,SqrtN,SqrtN,SqrtN,SqrtN,SqrtN); Perfect_4n->AddYerror(2,SqrtN,SqrtN,SqrtN,SqrtN,SqrtN);
     DNN_5n->AddYerror(2,SqrtN,SqrtN,SqrtN,SqrtN,SqrtN); DNN_Res_5n->AddYerror(2,SqrtN,SqrtN,SqrtN,SqrtN,SqrtN); TDR_5n->AddYerror(2,SqrtN,SqrtN,SqrtN,SqrtN,SqrtN); TDR_Res_5n->AddYerror(2,SqrtN,SqrtN,SqrtN,SqrtN,SqrtN); Perfect_5n->AddYerror(2,SqrtN,SqrtN,SqrtN,SqrtN,SqrtN);
     
-    DNN_1n->AddXpoint(2,30.0); DNN_Res_1n->AddXpoint(2,30.0); TDR_1n->AddXpoint(2,30.0); TDR_Res_1n->AddXpoint(2,30.0); Perfect_1n->AddXpoint(2,30.0);
-    DNN_2n->AddXpoint(2,30.0); DNN_Res_2n->AddXpoint(2,30.0); TDR_2n->AddXpoint(2,30.0); TDR_Res_2n->AddXpoint(2,30.0); Perfect_2n->AddXpoint(2,30.0);
-    DNN_3n->AddXpoint(2,30.0); DNN_Res_3n->AddXpoint(2,30.0); TDR_3n->AddXpoint(2,30.0); TDR_Res_3n->AddXpoint(2,30.0); Perfect_3n->AddXpoint(2,30.0);
-    DNN_4n->AddXpoint(2,30.0); DNN_Res_4n->AddXpoint(2,30.0); TDR_4n->AddXpoint(2,30.0); TDR_Res_4n->AddXpoint(2,30.0); Perfect_4n->AddXpoint(2,30.0);
-    DNN_5n->AddXpoint(2,30.0); DNN_Res_5n->AddXpoint(2,30.0); TDR_5n->AddXpoint(2,30.0); TDR_Res_5n->AddXpoint(2,30.0); Perfect_5n->AddXpoint(2,30.0);
+    DNN_1n->AddXpoint(2,16.0); DNN_Res_1n->AddXpoint(2,16.0); TDR_1n->AddXpoint(2,16.0); TDR_Res_1n->AddXpoint(2,16.0); Perfect_1n->AddXpoint(2,16.0);
+    DNN_2n->AddXpoint(2,16.0); DNN_Res_2n->AddXpoint(2,16.0); TDR_2n->AddXpoint(2,16.0); TDR_Res_2n->AddXpoint(2,16.0); Perfect_2n->AddXpoint(2,16.0);
+    DNN_3n->AddXpoint(2,16.0); DNN_Res_3n->AddXpoint(2,16.0); TDR_3n->AddXpoint(2,16.0); TDR_Res_3n->AddXpoint(2,16.0); Perfect_3n->AddXpoint(2,16.0);
+    DNN_4n->AddXpoint(2,16.0); DNN_Res_4n->AddXpoint(2,16.0); TDR_4n->AddXpoint(2,16.0); TDR_Res_4n->AddXpoint(2,16.0); Perfect_4n->AddXpoint(2,16.0);
+    DNN_5n->AddXpoint(2,16.0); DNN_Res_5n->AddXpoint(2,16.0); TDR_5n->AddXpoint(2,16.0); TDR_Res_5n->AddXpoint(2,16.0); Perfect_5n->AddXpoint(2,16.0);
+    
+    // ------------------------------------------------------------
+    
+    // Then, add the 30dp scenario:
+    DNN_1n->AddYpoint(3,88.8,87.4,87.4,86.8,85.1); DNN_Res_1n->AddYpoint(3,88.6,87.3,87.2,86.7,85.0); TDR_1n->AddYpoint(3,82.8,82.0,81.2,82.6,81.2); TDR_Res_1n->AddYpoint(3,82.8,81.9,81.1,82.5,81.1); Perfect_1n->AddYpoint(3,95.2,95.1,93.4,95.0,93.5);
+    DNN_2n->AddYpoint(3,70.5,72.1,64.7,68.8,63.8); DNN_Res_2n->AddYpoint(3,69.2,70.7,63.1,67.4,61.8); TDR_2n->AddYpoint(3,58.4,66.2,53.4,67.6,62.3); TDR_Res_2n->AddYpoint(3,57.2,64.9,51.8,66.3,60.6); Perfect_2n->AddYpoint(3,90.4,90.5,87.6,90.4,87.5);
+    DNN_3n->AddYpoint(3,60.2,60.6,53.4,59.1,54.1); DNN_Res_3n->AddYpoint(3,57.1,57.5,49.7,55.6,49.6); TDR_3n->AddYpoint(3,65.1,57.2,60.3,57.9,52.6); TDR_Res_3n->AddYpoint(3,61.1,54.2,54.8,55.1,48.9); Perfect_3n->AddYpoint(3,85.6,85.6,81.2,85.6,81.2);
+    DNN_4n->AddYpoint(3,55.2,52.6,47.8,49.7,46.1); DNN_Res_4n->AddYpoint(3,50.3,47.8,42.2,44.6,39.6); TDR_4n->AddYpoint(3,55.4,57.7,50.0,55.0,49.5); TDR_Res_4n->AddYpoint(3,51.3,53.0,44.5,50.8,43.9); Perfect_4n->AddYpoint(3,80.4,80.3,74.8,80.3,74.6);
+    DNN_5n->AddYpoint(3,63.3,66.2,49.1,69.3,60.9); DNN_Res_5n->AddYpoint(3,56.2,58.4,41.8,60.3,50.3); TDR_5n->AddYpoint(3,50.7,54.1,45.6,54.2,48.1); TDR_Res_5n->AddYpoint(3,45.9,48.8,39.1,48.8,41.1); Perfect_5n->AddYpoint(3,75.1,75.1,67.9,75.1,68.0);
+    
+    DNN_1n->AddYerror(3,SqrtN,SqrtN,SqrtN,SqrtN,SqrtN); DNN_Res_1n->AddYerror(3,SqrtN,SqrtN,SqrtN,SqrtN,SqrtN); TDR_1n->AddYerror(3,SqrtN,SqrtN,SqrtN,SqrtN,SqrtN); TDR_Res_1n->AddYerror(3,SqrtN,SqrtN,SqrtN,SqrtN,SqrtN); Perfect_1n->AddYerror(3,SqrtN,SqrtN,SqrtN,SqrtN,SqrtN);
+    DNN_2n->AddYerror(3,SqrtN,SqrtN,SqrtN,SqrtN,SqrtN); DNN_Res_2n->AddYerror(3,SqrtN,SqrtN,SqrtN,SqrtN,SqrtN); TDR_2n->AddYerror(3,SqrtN,SqrtN,SqrtN,SqrtN,SqrtN); TDR_Res_2n->AddYerror(3,SqrtN,SqrtN,SqrtN,SqrtN,SqrtN); Perfect_2n->AddYerror(3,SqrtN,SqrtN,SqrtN,SqrtN,SqrtN);
+    DNN_3n->AddYerror(3,SqrtN,SqrtN,SqrtN,SqrtN,SqrtN); DNN_Res_3n->AddYerror(3,SqrtN,SqrtN,SqrtN,SqrtN,SqrtN); TDR_3n->AddYerror(3,SqrtN,SqrtN,SqrtN,SqrtN,SqrtN); TDR_Res_3n->AddYerror(3,SqrtN,SqrtN,SqrtN,SqrtN,SqrtN); Perfect_3n->AddYerror(3,SqrtN,SqrtN,SqrtN,SqrtN,SqrtN);
+    DNN_4n->AddYerror(3,SqrtN,SqrtN,SqrtN,SqrtN,SqrtN); DNN_Res_4n->AddYerror(3,SqrtN,SqrtN,SqrtN,SqrtN,SqrtN); TDR_4n->AddYerror(3,SqrtN,SqrtN,SqrtN,SqrtN,SqrtN); TDR_Res_4n->AddYerror(3,SqrtN,SqrtN,SqrtN,SqrtN,SqrtN); Perfect_4n->AddYerror(3,SqrtN,SqrtN,SqrtN,SqrtN,SqrtN);
+    DNN_5n->AddYerror(3,SqrtN,SqrtN,SqrtN,SqrtN,SqrtN); DNN_Res_5n->AddYerror(3,SqrtN,SqrtN,SqrtN,SqrtN,SqrtN); TDR_5n->AddYerror(3,SqrtN,SqrtN,SqrtN,SqrtN,SqrtN); TDR_Res_5n->AddYerror(3,SqrtN,SqrtN,SqrtN,SqrtN,SqrtN); Perfect_5n->AddYerror(3,SqrtN,SqrtN,SqrtN,SqrtN,SqrtN);
+    
+    DNN_1n->AddXpoint(3,30.0); DNN_Res_1n->AddXpoint(3,30.0); TDR_1n->AddXpoint(3,30.0); TDR_Res_1n->AddXpoint(3,30.0); Perfect_1n->AddXpoint(3,30.0);
+    DNN_2n->AddXpoint(3,30.0); DNN_Res_2n->AddXpoint(3,30.0); TDR_2n->AddXpoint(3,30.0); TDR_Res_2n->AddXpoint(3,30.0); Perfect_2n->AddXpoint(3,30.0);
+    DNN_3n->AddXpoint(3,30.0); DNN_Res_3n->AddXpoint(3,30.0); TDR_3n->AddXpoint(3,30.0); TDR_Res_3n->AddXpoint(3,30.0); Perfect_3n->AddXpoint(3,30.0);
+    DNN_4n->AddXpoint(3,30.0); DNN_Res_4n->AddXpoint(3,30.0); TDR_4n->AddXpoint(3,30.0); TDR_Res_4n->AddXpoint(3,30.0); Perfect_4n->AddXpoint(3,30.0);
+    DNN_5n->AddXpoint(3,30.0); DNN_Res_5n->AddXpoint(3,30.0); TDR_5n->AddXpoint(3,30.0); TDR_Res_5n->AddXpoint(3,30.0); Perfect_5n->AddXpoint(3,30.0);
     
     // ------------------------------------------------------------
     

diff --git a/R3BRoot/DNN/Presentation/MakeMultAllGraphs_600MeV.cpp b/R3BRoot/DNN/Presentation/MakeMultAllGraphs_600MeV.cpp
@@ -45,12 +45,12 @@ void MakeMultAllGraphs_600MeV()
     
     // ------------------------------------------------------------
     
-    // Then, add the 16dp scenario:
-    DNN_1n->AddYpoint(1,75.1,75.3,74.4,75.9,75.3); DNN_Res_1n->AddYpoint(1,73.9,74.1,73.3,74.6,74.0); TDR_1n->AddYpoint(1,58.8,59.2,58.4,59.1,58.2); TDR_Res_1n->AddYpoint(1,58.1,58.5,57.7,58.4,57.4); Perfect_1n->AddYpoint(1,85.6,85.7,84.7,85.5,84.6);
-    DNN_2n->AddYpoint(1,55.7,49.4,53.9,54.6,52.8); DNN_Res_2n->AddYpoint(1,49.4,43.3,47.4,48.7,46.7); TDR_2n->AddYpoint(1,49.3,49.2,48.2,49.3,48.2); TDR_Res_2n->AddYpoint(1,42.4,42.5,40.9,42.5,40.9); Perfect_2n->AddYpoint(1,73.1,73.4,71.9,73.2,71.8);
-    DNN_3n->AddYpoint(1,39.7,44.8,37.9,40.4,38.5); DNN_Res_3n->AddYpoint(1,31.6,33.8,29.7,32.3,30.3); TDR_3n->AddYpoint(1,39.2,38.9,37.8,39.0,37.9); TDR_Res_3n->AddYpoint(1,31.3,31.2,29.4,31.0,29.5); Perfect_3n->AddYpoint(1,62.2,62.5,60.6,62.2,60.6);
-    DNN_4n->AddYpoint(1,36.0,39.5,34.2,32.2,31.0); DNN_Res_4n->AddYpoint(1,25.1,27.3,23.3,22.7,21.0); TDR_4n->AddYpoint(1,30.8,30.7,29.7,31.0,29.9); TDR_Res_4n->AddYpoint(1,22.6,22.6,21.2,22.8,21.4); Perfect_4n->AddYpoint(1,52.5,52.9,51.0,52.9,50.9);
-    DNN_5n->AddYpoint(1,43.3,41.8,41.2,44.2,44.2); DNN_Res_5n->AddYpoint(1,29.1,28.4,27.1,29.5,28.5); TDR_5n->AddYpoint(1,35.4,35.0,34.9,35.2,34.6); TDR_Res_5n->AddYpoint(1,24.2,23.9,23.2,24.0,23.0); Perfect_5n->AddYpoint(1,44.1,44.1,42.6,43.9,42.6);
+    // Then, add the 12dp scenario:
+    DNN_1n->AddYpoint(1,66.4,66.2,63.9,69.7,67.4); DNN_Res_1n->AddYpoint(1,64.6,64.4,62.0,67.8,65.6); TDR_1n->AddYpoint(1,51.2,51.4,45.8,55.5,50.3); TDR_Res_1n->AddYpoint(1,50.2,50.4,44.7,54.4,49.2); Perfect_1n->AddYpoint(1,76.8,76.8,76.4,76.8,76.4);
+    DNN_2n->AddYpoint(1,50.7,48.0,48.9,48.2,47.0); DNN_Res_2n->AddYpoint(1,39.6,36.9,36.4,39.8,37.2); TDR_2n->AddYpoint(1,41.0,41.6,39.1,42.3,41.1); TDR_Res_2n->AddYpoint(1,30.4,31.0,26.5,33.3,29.9); Perfect_2n->AddYpoint(1,59.1,59.1,58.8,59.2,58.7);
+    DNN_3n->AddYpoint(1,31.5,36.5,30.7,28.7,29.2); DNN_Res_3n->AddYpoint(1,21.0,23.3,18.7,20.9,19.3); TDR_3n->AddYpoint(1,30.9,30.8,30.8,29.1,30.4); TDR_Res_3n->AddYpoint(1,19.9,20.2,17.6,20.7,19.4); Perfect_3n->AddYpoint(1,45.4,45.5,45.1,45.5,45.2);
+    DNN_4n->AddYpoint(1,31.2,25.5,32.0,26.6,30.2); DNN_Res_4n->AddYpoint(1,17.4,13.5,16.0,16.6,16.7); TDR_4n->AddYpoint(1,23.5,22.8,25.0,19.8,23.0); TDR_Res_4n->AddYpoint(1,13.2,13.0,12.0,12.6,12.8); Perfect_4n->AddYpoint(1,35.0,34.6,34.5,34.9,34.6);
+    DNN_5n->AddYpoint(1,27.6,36.1,33.3,19.1,26.3); DNN_Res_5n->AddYpoint(1,15.2,18.2,17.1,11.5,14.3); TDR_5n->AddYpoint(1,28.4,27.0,37.3,19.9,27.3); TDR_Res_5n->AddYpoint(1,14.6,14.3,17.7,11.0,14.0); Perfect_5n->AddYpoint(1,26.5,26.7,26.6,26.5,26.3);
     
     DNN_1n->AddYerror(1,SqrtN,SqrtN,SqrtN,SqrtN,SqrtN); DNN_Res_1n->AddYerror(1,SqrtN,SqrtN,SqrtN,SqrtN,SqrtN); TDR_1n->AddYerror(1,SqrtN,SqrtN,SqrtN,SqrtN,SqrtN); TDR_Res_1n->AddYerror(1,SqrtN,SqrtN,SqrtN,SqrtN,SqrtN); Perfect_1n->AddYerror(1,SqrtN,SqrtN,SqrtN,SqrtN,SqrtN);
     DNN_2n->AddYerror(1,SqrtN,SqrtN,SqrtN,SqrtN,SqrtN); DNN_Res_2n->AddYerror(1,SqrtN,SqrtN,SqrtN,SqrtN,SqrtN); TDR_2n->AddYerror(1,SqrtN,SqrtN,SqrtN,SqrtN,SqrtN); TDR_Res_2n->AddYerror(1,SqrtN,SqrtN,SqrtN,SqrtN,SqrtN); Perfect_2n->AddYerror(1,SqrtN,SqrtN,SqrtN,SqrtN,SqrtN);
@@ -58,20 +58,20 @@ void MakeMultAllGraphs_600MeV()
     DNN_4n->AddYerror(1,SqrtN,SqrtN,SqrtN,SqrtN,SqrtN); DNN_Res_4n->AddYerror(1,SqrtN,SqrtN,SqrtN,SqrtN,SqrtN); TDR_4n->AddYerror(1,SqrtN,SqrtN,SqrtN,SqrtN,SqrtN); TDR_Res_4n->AddYerror(1,SqrtN,SqrtN,SqrtN,SqrtN,SqrtN); Perfect_4n->AddYerror(1,SqrtN,SqrtN,SqrtN,SqrtN,SqrtN);
     DNN_5n->AddYerror(1,SqrtN,SqrtN,SqrtN,SqrtN,SqrtN); DNN_Res_5n->AddYerror(1,SqrtN,SqrtN,SqrtN,SqrtN,SqrtN); TDR_5n->AddYerror(1,SqrtN,SqrtN,SqrtN,SqrtN,SqrtN); TDR_Res_5n->AddYerror(1,SqrtN,SqrtN,SqrtN,SqrtN,SqrtN); Perfect_5n->AddYerror(1,SqrtN,SqrtN,SqrtN,SqrtN,SqrtN);
     
-    DNN_1n->AddXpoint(1,16.0); DNN_Res_1n->AddXpoint(1,16.0); TDR_1n->AddXpoint(1,16.0); TDR_Res_1n->AddXpoint(1,16.0); Perfect_1n->AddXpoint(1,16.0);
-    DNN_2n->AddXpoint(1,16.0); DNN_Res_2n->AddXpoint(1,16.0); TDR_2n->AddXpoint(1,16.0); TDR_Res_2n->AddXpoint(1,16.0); Perfect_2n->AddXpoint(1,16.0);
-    DNN_3n->AddXpoint(1,16.0); DNN_Res_3n->AddXpoint(1,16.0); TDR_3n->AddXpoint(1,16.0); TDR_Res_3n->AddXpoint(1,16.0); Perfect_3n->AddXpoint(1,16.0);
-    DNN_4n->AddXpoint(1,16.0); DNN_Res_4n->AddXpoint(1,16.0); TDR_4n->AddXpoint(1,16.0); TDR_Res_4n->AddXpoint(1,16.0); Perfect_4n->AddXpoint(1,16.0);
-    DNN_5n->AddXpoint(1,16.0); DNN_Res_5n->AddXpoint(1,16.0); TDR_5n->AddXpoint(1,16.0); TDR_Res_5n->AddXpoint(1,16.0); Perfect_5n->AddXpoint(1,16.0);
+    DNN_1n->AddXpoint(1,12.0); DNN_Res_1n->AddXpoint(1,12.0); TDR_1n->AddXpoint(1,12.0); TDR_Res_1n->AddXpoint(1,12.0); Perfect_1n->AddXpoint(1,12.0);
+    DNN_2n->AddXpoint(1,12.0); DNN_Res_2n->AddXpoint(1,12.0); TDR_2n->AddXpoint(1,12.0); TDR_Res_2n->AddXpoint(1,12.0); Perfect_2n->AddXpoint(1,12.0);
+    DNN_3n->AddXpoint(1,12.0); DNN_Res_3n->AddXpoint(1,12.0); TDR_3n->AddXpoint(1,12.0); TDR_Res_3n->AddXpoint(1,12.0); Perfect_3n->AddXpoint(1,12.0);
+    DNN_4n->AddXpoint(1,12.0); DNN_Res_4n->AddXpoint(1,12.0); TDR_4n->AddXpoint(1,12.0); TDR_Res_4n->AddXpoint(1,12.0); Perfect_4n->AddXpoint(1,12.0);
+    DNN_5n->AddXpoint(1,12.0); DNN_Res_5n->AddXpoint(1,12.0); TDR_5n->AddXpoint(1,12.0); TDR_Res_5n->AddXpoint(1,12.0); Perfect_5n->AddXpoint(1,12.0);
     
     // ------------------------------------------------------------
     
-    // Then, add the 30dp scenario:
-    DNN_1n->AddYpoint(2,88.5,87.3,85.4,90.6,87.9); DNN_Res_1n->AddYpoint(2,88.2,87.0,85.1,90.3,87.5); TDR_1n->AddYpoint(2,74.6,76.2,61.9,82.8,74.8); TDR_Res_1n->AddYpoint(2,74.4,76.0,61.7,82.6,74.6); Perfect_1n->AddYpoint(2,96.5,96.4,96.3,96.4,96.4);
-    DNN_2n->AddYpoint(2,71.6,71.0,65.2,73.9,70.9); DNN_Res_2n->AddYpoint(2,70.4,69.8,63.6,73.0,69.6); TDR_2n->AddYpoint(2,67.9,67.5,54.3,72.9,67.2); TDR_Res_2n->AddYpoint(2,66.4,66.1,51.7,71.8,65.5); Perfect_2n->AddYpoint(2,92.7,92.7,92.3,92.6,92.4);
-    DNN_3n->AddYpoint(2,58.7,62.3,52.5,58.3,57.9); DNN_Res_3n->AddYpoint(2,55.9,59.2,48.7,56.3,55.0); TDR_3n->AddYpoint(2,59.6,59.4,49.7,57.2,59.3); TDR_Res_3n->AddYpoint(2,56.7,56.6,45.2,55.4,56.2); Perfect_3n->AddYpoint(2,88.1,88.1,87.6,88.1,87.6);
-    DNN_4n->AddYpoint(2,55.3,52.8,50.9,46.6,49.3); DNN_Res_4n->AddYpoint(2,50.2,48.1,44.3,43.6,44.4); TDR_4n->AddYpoint(2,50.6,51.1,45.9,40.6,50.9); TDR_Res_4n->AddYpoint(2,46.5,47.0,39.6,38.2,46.5); Perfect_4n->AddYpoint(2,82.9,83.0,82.3,83.2,82.2);
-    DNN_5n->AddYpoint(2,62.6,64.2,71.8,48.8,64.1); DNN_Res_5n->AddYpoint(2,54.9,55.8,60.6,43.5,55.1); TDR_5n->AddYpoint(2,55.7,57.3,75.2,32.7,55.7); TDR_Res_5n->AddYpoint(2,48.9,50.0,63.0,29.1,48.3); Perfect_5n->AddYpoint(2,77.4,77.1,76.2,77.5,76.3);
+    // Then, add the 16dp scenario:
+    DNN_1n->AddYpoint(2,75.1,75.3,74.4,75.9,75.3); DNN_Res_1n->AddYpoint(2,73.9,74.1,73.3,74.6,74.0); TDR_1n->AddYpoint(2,58.8,59.2,58.4,59.1,58.2); TDR_Res_1n->AddYpoint(2,58.1,58.5,57.7,58.4,57.4); Perfect_1n->AddYpoint(2,85.6,85.7,84.7,85.5,84.6);
+    DNN_2n->AddYpoint(2,55.7,49.4,53.9,54.6,52.8); DNN_Res_2n->AddYpoint(2,49.4,43.3,47.4,48.7,46.7); TDR_2n->AddYpoint(2,49.3,49.2,48.2,49.3,48.2); TDR_Res_2n->AddYpoint(2,42.4,42.5,40.9,42.5,40.9); Perfect_2n->AddYpoint(2,73.1,73.4,71.9,73.2,71.8);
+    DNN_3n->AddYpoint(2,39.7,44.8,37.9,40.4,38.5); DNN_Res_3n->AddYpoint(2,31.6,33.8,29.7,32.3,30.3); TDR_3n->AddYpoint(2,39.2,38.9,37.8,39.0,37.9); TDR_Res_3n->AddYpoint(2,31.3,31.2,29.4,31.0,29.5); Perfect_3n->AddYpoint(2,62.2,62.5,60.6,62.2,60.6);
+    DNN_4n->AddYpoint(2,36.0,39.5,34.2,32.2,31.0); DNN_Res_4n->AddYpoint(2,25.1,27.3,23.3,22.7,21.0); TDR_4n->AddYpoint(2,30.8,30.7,29.7,31.0,29.9); TDR_Res_4n->AddYpoint(2,22.6,22.6,21.2,22.8,21.4); Perfect_4n->AddYpoint(2,52.5,52.9,51.0,52.9,50.9);
+    DNN_5n->AddYpoint(2,43.3,41.8,41.2,44.2,44.2); DNN_Res_5n->AddYpoint(2,29.1,28.4,27.1,29.5,28.5); TDR_5n->AddYpoint(2,35.4,35.0,34.9,35.2,34.6); TDR_Res_5n->AddYpoint(2,24.2,23.9,23.2,24.0,23.0); Perfect_5n->AddYpoint(2,44.1,44.1,42.6,43.9,42.6);
     
     DNN_1n->AddYerror(2,SqrtN,SqrtN,SqrtN,SqrtN,SqrtN); DNN_Res_1n->AddYerror(2,SqrtN,SqrtN,SqrtN,SqrtN,SqrtN); TDR_1n->AddYerror(2,SqrtN,SqrtN,SqrtN,SqrtN,SqrtN); TDR_Res_1n->AddYerror(2,SqrtN,SqrtN,SqrtN,SqrtN,SqrtN); Perfect_1n->AddYerror(2,SqrtN,SqrtN,SqrtN,SqrtN,SqrtN);
     DNN_2n->AddYerror(2,SqrtN,SqrtN,SqrtN,SqrtN,SqrtN); DNN_Res_2n->AddYerror(2,SqrtN,SqrtN,SqrtN,SqrtN,SqrtN); TDR_2n->AddYerror(2,SqrtN,SqrtN,SqrtN,SqrtN,SqrtN); TDR_Res_2n->AddYerror(2,SqrtN,SqrtN,SqrtN,SqrtN,SqrtN); Perfect_2n->AddYerror(2,SqrtN,SqrtN,SqrtN,SqrtN,SqrtN);
@@ -79,11 +79,32 @@ void MakeMultAllGraphs_600MeV()
     DNN_4n->AddYerror(2,SqrtN,SqrtN,SqrtN,SqrtN,SqrtN); DNN_Res_4n->AddYerror(2,SqrtN,SqrtN,SqrtN,SqrtN,SqrtN); TDR_4n->AddYerror(2,SqrtN,SqrtN,SqrtN,SqrtN,SqrtN); TDR_Res_4n->AddYerror(2,SqrtN,SqrtN,SqrtN,SqrtN,SqrtN); Perfect_4n->AddYerror(2,SqrtN,SqrtN,SqrtN,SqrtN,SqrtN);
     DNN_5n->AddYerror(2,SqrtN,SqrtN,SqrtN,SqrtN,SqrtN); DNN_Res_5n->AddYerror(2,SqrtN,SqrtN,SqrtN,SqrtN,SqrtN); TDR_5n->AddYerror(2,SqrtN,SqrtN,SqrtN,SqrtN,SqrtN); TDR_Res_5n->AddYerror(2,SqrtN,SqrtN,SqrtN,SqrtN,SqrtN); Perfect_5n->AddYerror(2,SqrtN,SqrtN,SqrtN,SqrtN,SqrtN);
     
-    DNN_1n->AddXpoint(2,30.0); DNN_Res_1n->AddXpoint(2,30.0); TDR_1n->AddXpoint(2,30.0); TDR_Res_1n->AddXpoint(2,30.0); Perfect_1n->AddXpoint(2,30.0);
-    DNN_2n->AddXpoint(2,30.0); DNN_Res_2n->AddXpoint(2,30.0); TDR_2n->AddXpoint(2,30.0); TDR_Res_2n->AddXpoint(2,30.0); Perfect_2n->AddXpoint(2,30.0);
-    DNN_3n->AddXpoint(2,30.0); DNN_Res_3n->AddXpoint(2,30.0); TDR_3n->AddXpoint(2,30.0); TDR_Res_3n->AddXpoint(2,30.0); Perfect_3n->AddXpoint(2,30.0);
-    DNN_4n->AddXpoint(2,30.0); DNN_Res_4n->AddXpoint(2,30.0); TDR_4n->AddXpoint(2,30.0); TDR_Res_4n->AddXpoint(2,30.0); Perfect_4n->AddXpoint(2,30.0);
-    DNN_5n->AddXpoint(2,30.0); DNN_Res_5n->AddXpoint(2,30.0); TDR_5n->AddXpoint(2,30.0); TDR_Res_5n->AddXpoint(2,30.0); Perfect_5n->AddXpoint(2,30.0);
+    DNN_1n->AddXpoint(2,16.0); DNN_Res_1n->AddXpoint(2,16.0); TDR_1n->AddXpoint(2,16.0); TDR_Res_1n->AddXpoint(2,16.0); Perfect_1n->AddXpoint(2,16.0);
+    DNN_2n->AddXpoint(2,16.0); DNN_Res_2n->AddXpoint(2,16.0); TDR_2n->AddXpoint(2,16.0); TDR_Res_2n->AddXpoint(2,16.0); Perfect_2n->AddXpoint(2,16.0);
+    DNN_3n->AddXpoint(2,16.0); DNN_Res_3n->AddXpoint(2,16.0); TDR_3n->AddXpoint(2,16.0); TDR_Res_3n->AddXpoint(2,16.0); Perfect_3n->AddXpoint(2,16.0);
+    DNN_4n->AddXpoint(2,16.0); DNN_Res_4n->AddXpoint(2,16.0); TDR_4n->AddXpoint(2,16.0); TDR_Res_4n->AddXpoint(2,16.0); Perfect_4n->AddXpoint(2,16.0);
+    DNN_5n->AddXpoint(2,16.0); DNN_Res_5n->AddXpoint(2,16.0); TDR_5n->AddXpoint(2,16.0); TDR_Res_5n->AddXpoint(2,16.0); Perfect_5n->AddXpoint(2,16.0);
+    
+    // ------------------------------------------------------------
+    
+    // Then, add the 30dp scenario:
+    DNN_1n->AddYpoint(3,88.5,87.3,85.4,90.6,87.9); DNN_Res_1n->AddYpoint(3,88.2,87.0,85.1,90.3,87.5); TDR_1n->AddYpoint(3,74.6,76.2,61.9,82.8,74.8); TDR_Res_1n->AddYpoint(3,74.4,76.0,61.7,82.6,74.6); Perfect_1n->AddYpoint(3,96.5,96.4,96.3,96.4,96.4);
+    DNN_2n->AddYpoint(3,71.6,71.0,65.2,73.9,70.9); DNN_Res_2n->AddYpoint(3,70.4,69.8,63.6,73.0,69.6); TDR_2n->AddYpoint(3,67.9,67.5,54.3,72.9,67.2); TDR_Res_2n->AddYpoint(3,66.4,66.1,51.7,71.8,65.5); Perfect_2n->AddYpoint(3,92.7,92.7,92.3,92.6,92.4);
+    DNN_3n->AddYpoint(3,58.7,62.3,52.5,58.3,57.9); DNN_Res_3n->AddYpoint(3,55.9,59.2,48.7,56.3,55.0); TDR_3n->AddYpoint(3,59.6,59.4,49.7,57.2,59.3); TDR_Res_3n->AddYpoint(3,56.7,56.6,45.2,55.4,56.2); Perfect_3n->AddYpoint(3,88.1,88.1,87.6,88.1,87.6);
+    DNN_4n->AddYpoint(3,55.3,52.8,50.9,46.6,49.3); DNN_Res_4n->AddYpoint(3,50.2,48.1,44.3,43.6,44.4); TDR_4n->AddYpoint(3,50.6,51.1,45.9,40.6,50.9); TDR_Res_4n->AddYpoint(3,46.5,47.0,39.6,38.2,46.5); Perfect_4n->AddYpoint(3,82.9,83.0,82.3,83.2,82.2);
+    DNN_5n->AddYpoint(3,62.6,64.2,71.8,48.8,64.1); DNN_Res_5n->AddYpoint(3,54.9,55.8,60.6,43.5,55.1); TDR_5n->AddYpoint(3,55.7,57.3,75.2,32.7,55.7); TDR_Res_5n->AddYpoint(3,48.9,50.0,63.0,29.1,48.3); Perfect_5n->AddYpoint(3,77.4,77.1,76.2,77.5,76.3);
+    
+    DNN_1n->AddYerror(3,SqrtN,SqrtN,SqrtN,SqrtN,SqrtN); DNN_Res_1n->AddYerror(3,SqrtN,SqrtN,SqrtN,SqrtN,SqrtN); TDR_1n->AddYerror(3,SqrtN,SqrtN,SqrtN,SqrtN,SqrtN); TDR_Res_1n->AddYerror(3,SqrtN,SqrtN,SqrtN,SqrtN,SqrtN); Perfect_1n->AddYerror(3,SqrtN,SqrtN,SqrtN,SqrtN,SqrtN);
+    DNN_2n->AddYerror(3,SqrtN,SqrtN,SqrtN,SqrtN,SqrtN); DNN_Res_2n->AddYerror(3,SqrtN,SqrtN,SqrtN,SqrtN,SqrtN); TDR_2n->AddYerror(3,SqrtN,SqrtN,SqrtN,SqrtN,SqrtN); TDR_Res_2n->AddYerror(3,SqrtN,SqrtN,SqrtN,SqrtN,SqrtN); Perfect_2n->AddYerror(3,SqrtN,SqrtN,SqrtN,SqrtN,SqrtN);
+    DNN_3n->AddYerror(3,SqrtN,SqrtN,SqrtN,SqrtN,SqrtN); DNN_Res_3n->AddYerror(3,SqrtN,SqrtN,SqrtN,SqrtN,SqrtN); TDR_3n->AddYerror(3,SqrtN,SqrtN,SqrtN,SqrtN,SqrtN); TDR_Res_3n->AddYerror(3,SqrtN,SqrtN,SqrtN,SqrtN,SqrtN); Perfect_3n->AddYerror(3,SqrtN,SqrtN,SqrtN,SqrtN,SqrtN);
+    DNN_4n->AddYerror(3,SqrtN,SqrtN,SqrtN,SqrtN,SqrtN); DNN_Res_4n->AddYerror(3,SqrtN,SqrtN,SqrtN,SqrtN,SqrtN); TDR_4n->AddYerror(3,SqrtN,SqrtN,SqrtN,SqrtN,SqrtN); TDR_Res_4n->AddYerror(3,SqrtN,SqrtN,SqrtN,SqrtN,SqrtN); Perfect_4n->AddYerror(3,SqrtN,SqrtN,SqrtN,SqrtN,SqrtN);
+    DNN_5n->AddYerror(3,SqrtN,SqrtN,SqrtN,SqrtN,SqrtN); DNN_Res_5n->AddYerror(3,SqrtN,SqrtN,SqrtN,SqrtN,SqrtN); TDR_5n->AddYerror(3,SqrtN,SqrtN,SqrtN,SqrtN,SqrtN); TDR_Res_5n->AddYerror(3,SqrtN,SqrtN,SqrtN,SqrtN,SqrtN); Perfect_5n->AddYerror(3,SqrtN,SqrtN,SqrtN,SqrtN,SqrtN);
+    
+    DNN_1n->AddXpoint(3,30.0); DNN_Res_1n->AddXpoint(3,30.0); TDR_1n->AddXpoint(3,30.0); TDR_Res_1n->AddXpoint(3,30.0); Perfect_1n->AddXpoint(3,30.0);
+    DNN_2n->AddXpoint(3,30.0); DNN_Res_2n->AddXpoint(3,30.0); TDR_2n->AddXpoint(3,30.0); TDR_Res_2n->AddXpoint(3,30.0); Perfect_2n->AddXpoint(3,30.0);
+    DNN_3n->AddXpoint(3,30.0); DNN_Res_3n->AddXpoint(3,30.0); TDR_3n->AddXpoint(3,30.0); TDR_Res_3n->AddXpoint(3,30.0); Perfect_3n->AddXpoint(3,30.0);
+    DNN_4n->AddXpoint(3,30.0); DNN_Res_4n->AddXpoint(3,30.0); TDR_4n->AddXpoint(3,30.0); TDR_Res_4n->AddXpoint(3,30.0); Perfect_4n->AddXpoint(3,30.0);
+    DNN_5n->AddXpoint(3,30.0); DNN_Res_5n->AddXpoint(3,30.0); TDR_5n->AddXpoint(3,30.0); TDR_Res_5n->AddXpoint(3,30.0); Perfect_5n->AddXpoint(3,30.0);
     
     // ------------------------------------------------------------
     

diff --git a/R3BRoot/DNN/Presentation/Make4nInvHist.cpp b/R3BRoot/DNN/Presentation/Make4nInvHist.cpp
@@ -3,7 +3,8 @@
 void Make4nInvHist()
 {
     // NOTE: Makes a 4n Invariant Mass spectrum plot.
-    TString Case = "30dp_1000MeV";
+    TString Case = "12dp_200MeV";
+    TString ThePath = "/media/christiaan/DATA/Christiaan/ENSAR/Scenario_Summary/";
     Bool_t PlotScoring = kFALSE;
     Bool_t PlotDDNMult = kFALSE;
     
@@ -14,13 +15,16 @@ void Make4nInvHist()
     if (Case=="16dp_1000MeV") {ScaleDef[0] = 0.587; ScaleDef[1] = 0.588; ScaleDef[2] = 0.580; ScaleDef[3] = 0.586; ScaleDef[4] = 0.583;}
     if (Case=="16dp_600MeV")  {ScaleDef[0] = 0.525; ScaleDef[1] = 0.529; ScaleDef[2] = 0.510; ScaleDef[3] = 0.529; ScaleDef[4] = 0.509;}
     if (Case=="16dp_200MeV")  {ScaleDef[0] = 0.461; ScaleDef[1] = 0.461; ScaleDef[2] = 0.389; ScaleDef[3] = 0.462; ScaleDef[4] = 0.389;}
+    if (Case=="12dp_1000MeV") {ScaleDef[0] = 0.413; ScaleDef[1] = 0.413; ScaleDef[2] = 0.419; ScaleDef[3] = 0.414; ScaleDef[4] = 0.422;}
+    if (Case=="12dp_600MeV")  {ScaleDef[0] = 0.350; ScaleDef[1] = 0.346; ScaleDef[2] = 0.345; ScaleDef[3] = 0.349; ScaleDef[4] = 0.346;}
+    if (Case=="12dp_200MeV")  {ScaleDef[0] = 0.279; ScaleDef[1] = 0.279; ScaleDef[2] = 0.251; ScaleDef[3] = 0.280; ScaleDef[4] = 0.252;}
     if (Case=="8dp_1000MeV")  {ScaleDef[0] = 0.199; ScaleDef[1] = 0.197; ScaleDef[2] = 0.198; ScaleDef[3] = 0.198; ScaleDef[4] = 0.199;}
     if (Case=="8dp_600MeV")   {ScaleDef[0] = 0.156; ScaleDef[1] = 0.157; ScaleDef[2] = 0.151; ScaleDef[3] = 0.158; ScaleDef[4] = 0.150;}
     if (Case=="8dp_200MeV")   {ScaleDef[0] = 0.117; ScaleDef[1] = 0.118; ScaleDef[2] = 0.086; ScaleDef[3] = 0.117; ScaleDef[4] = 0.087;}
 
     // Do perfect histograms:
     DNNDataHist* PerfectHist = new DNNDataHist();
-    PerfectHist->SetPath("/ML/Scenario_Summary/"+Case+"/");
+    PerfectHist->SetPath(ThePath+Case+"/");
     PerfectHist->SetFileName("TetraNeutron_InvMass.root");
     PerfectHist->SetHistName("NeutronTracks_PerfectMethod_Signals_MassHistogram");
     PerfectHist->CollectPrimeHists();
@@ -41,7 +45,7 @@ void Make4nInvHist()
     
     // Do DNN histograms:
     DNNDataHist* DNNHist = new DNNDataHist();
-    DNNHist->SetPath("/ML/Scenario_Summary/"+Case+"/");
+    DNNHist->SetPath(ThePath+Case+"/");
     DNNHist->SetFileName("TetraNeutron_InvMass.root");
     DNNHist->SetHistName("NeutronTracks_DNNScoringPlus_MassHistogram");
     DNNHist->Scale_INCL_INCL(1.0);
@@ -57,7 +61,7 @@ void Make4nInvHist()
     
     // Do Scoring+ histograms:
     DNNDataHist* ScoringHist = new DNNDataHist();
-    ScoringHist->SetPath("/ML/Scenario_Summary/"+Case+"/");
+    ScoringHist->SetPath(ThePath+Case+"/");
     ScoringHist->SetFileName("TetraNeutron_InvMass.root");
     ScoringHist->SetHistName("NeutronTracks_ScoringPlus_Clusters_DNNMult_MassHistogram");
     ScoringHist->Scale_INCL_INCL(1.0);
@@ -73,7 +77,7 @@ void Make4nInvHist()
     
     // Do DNN Mult & R-value Sort histograms:
     DNNDataHist* MultHist = new DNNDataHist();
-    MultHist->SetPath("/ML/Scenario_Summary/"+Case+"/");
+    MultHist->SetPath(ThePath+Case+"/");
     MultHist->SetFileName("TetraNeutron_InvMass.root");
     MultHist->SetHistName("NeutronTracks_TradMed_Clusters_DNNMult_MassHistogram");
     MultHist->Scale_INCL_INCL(1.0);
@@ -89,7 +93,7 @@ void Make4nInvHist()
     
     // Do TDR histograms:
     DNNDataHist* TDRHist = new DNNDataHist();
-    TDRHist->SetPath("/ML/Scenario_Summary/"+Case+"/");
+    TDRHist->SetPath(ThePath+Case+"/");
     TDRHist->SetFileName("TetraNeutron_InvMass.root");
     TDRHist->SetHistName("NeutronTracks_TradMed_Clusters_CutsMult_MassHistogram");
     TDRHist->Scale_INCL_INCL(1.0);
